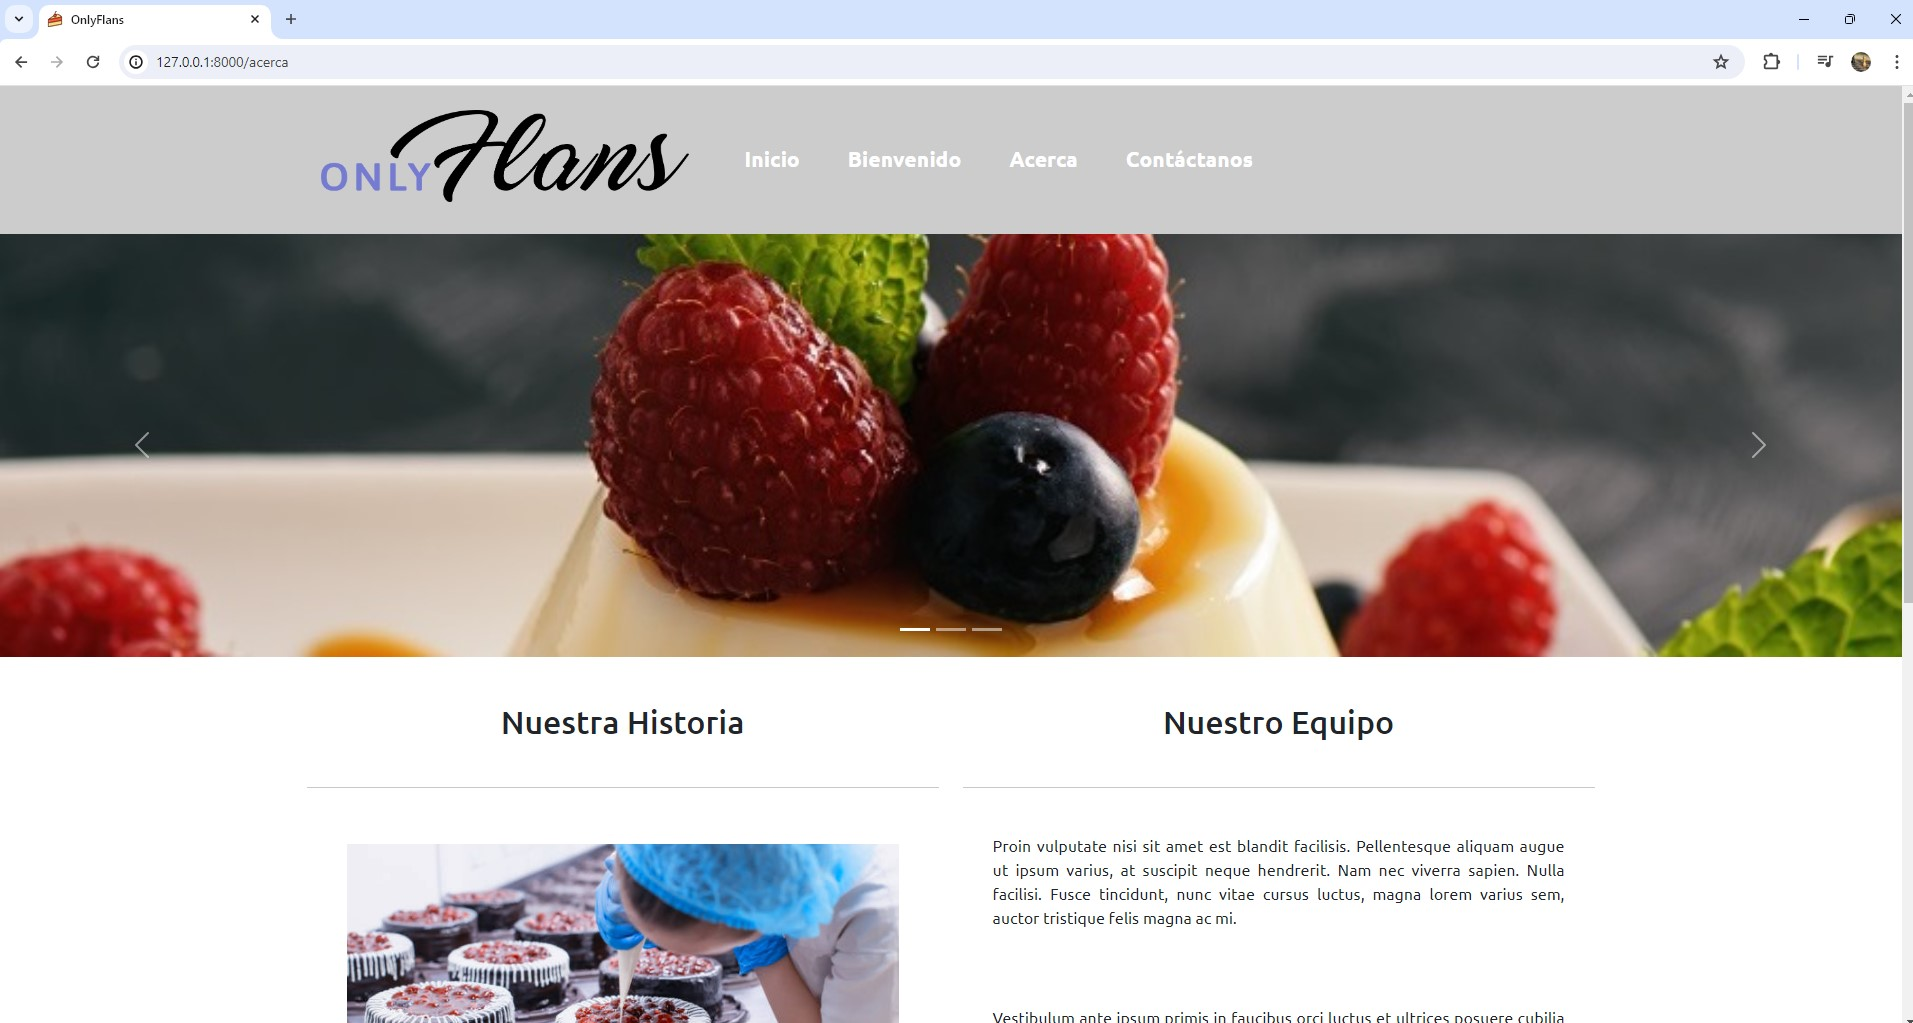
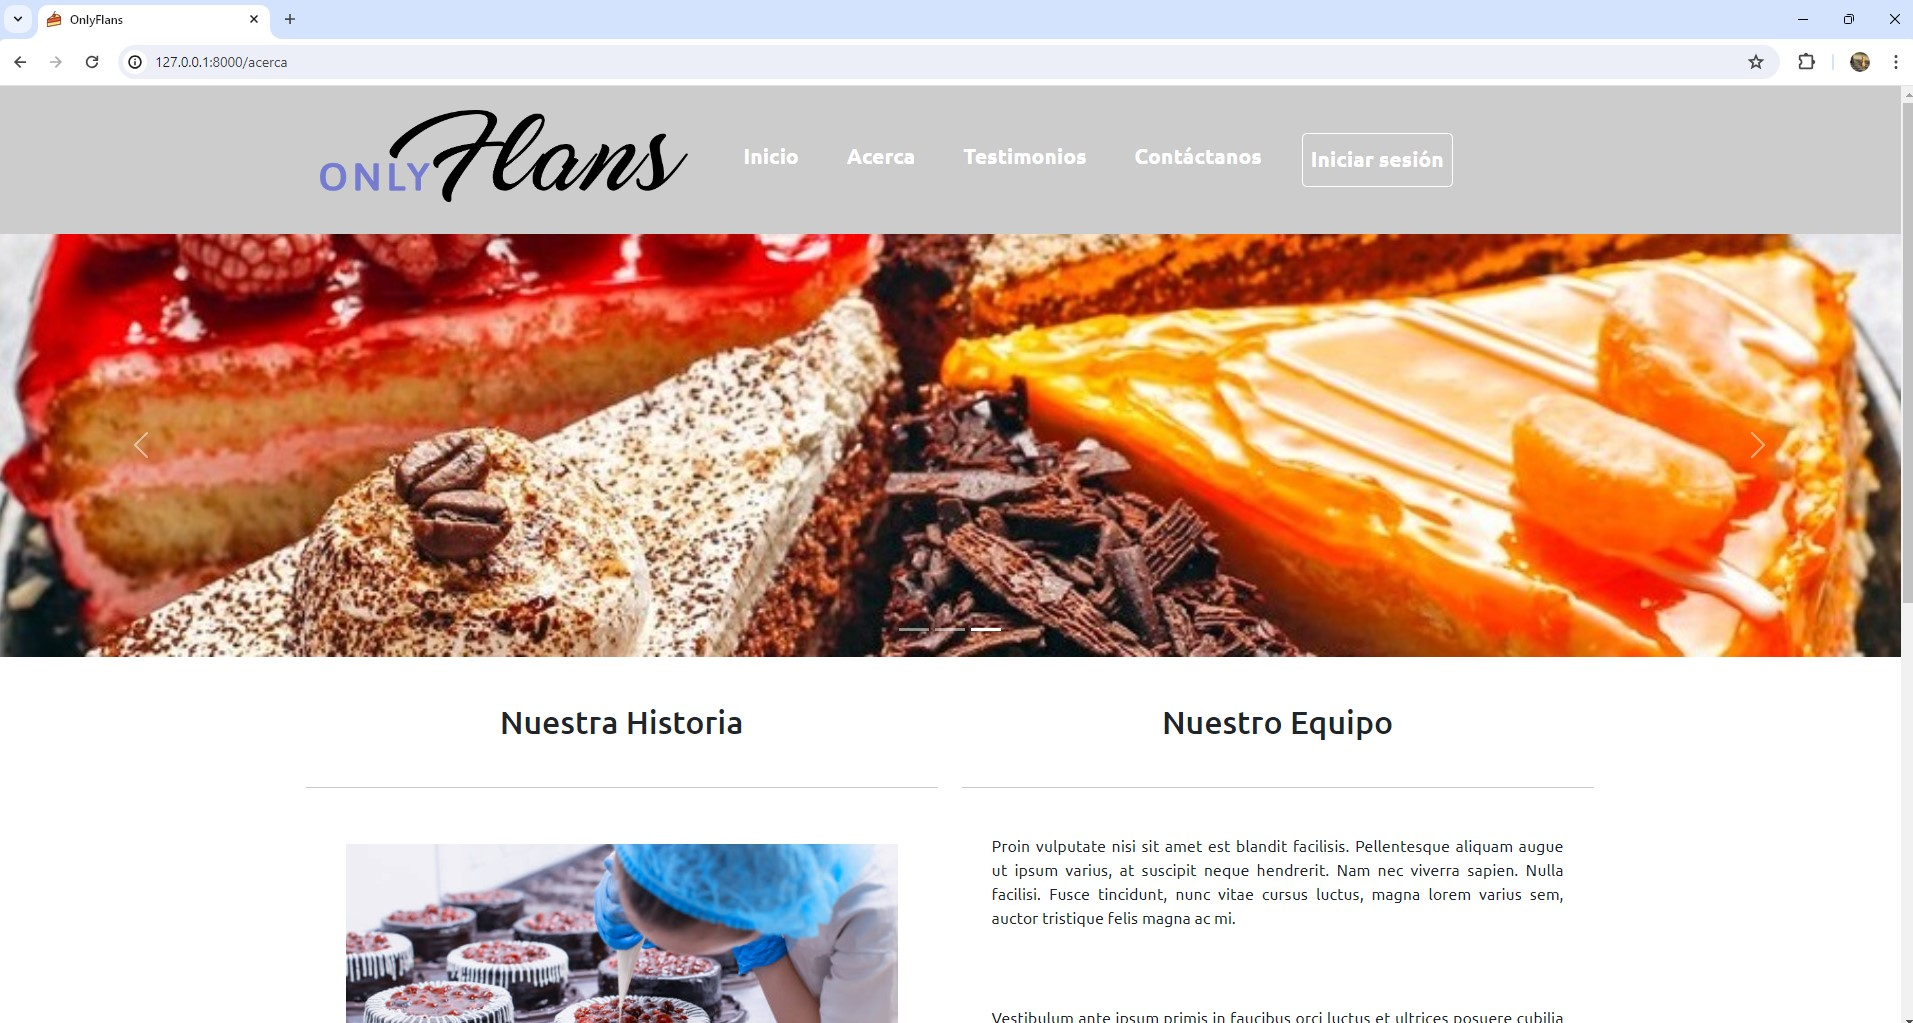
[DOC] Readme modificado

diff --git a/README.md b/README.md
@@ -73,33 +73,78 @@ Este proyecto utiliza un entorno virtual para gestionar las dependencias de Pyth
 ![Inicio](screenshots/inicio.jpg)
 ![Inicio 2](screenshots/inicio2.jpg)
 
+Sección de la página de inicio.
+
 ### Pantalla de Bienvenida
 
 ![Bienvenido](screenshots/bienvenido.jpg)
 ![Bienvenido 2](screenshots/bienvenido2.jpg)
 
+Sección de bienvenida para usuarios con sesión iniciada.
+
 ### Acerca de Nosotros
 
 ![Acerca](screenshots/acerca.jpg)
+![Acerca 2](screenshots/acerca2.jpg)
+
+Sección con información acerca de la empresa.
+
+### Testimonios
+
+![Testimonios](screenshots/testimonios.jpg)
+
+Sección con testimonios de clientes.
 
 ### Formulario de Contacto
 
+![Contacto](screenshots/contacto.jpg)
 ![Formulario de Contacto](screenshots/formulario_contacto.jpg)
 ![Formulario de Contacto 2](screenshots/formulario_contacto2.jpg)
 
-### Éxito
+Sección para formulario de contacto y mensaje de éxito al enviar el formulario.
 
-![Éxito](screenshots/exito.jpg)
+### Inicio de Sesión
+
+![Inicio de Sesión](screenshots/inicio_sesion.jpg)
+
+Sección para iniciar sesión dentro de la página.
+
+### Bienvenida para Clientes
+
+![Bienvenida para Clientes](screenshots/bienvenida_cliente.jpg)
+![Bienvenida para Clientes 2](screenshots/bienvenida_cliente2.jpg)
+
+Sección para usuarios con sesión iniciada exclusivamente.
+
+### Cerrar Sesión
+
+![Cerrar Sesión](screenshots/cerrar_sesion.jpg)
+
+Botón para cerrar la sesión.
 
 ### Panel de Administración
 
 ![Panel de Administración](screenshots/admin_panel.jpg)
 ![Panel de Administración 2](screenshots/admin_panel2.jpg)
 
+Panel de administración de la página.
+
 ### Panel de Postres
 
 ![Panel de Postres](screenshots/panel_postres.jpg)
 ![Panel de Postres 2](screenshots/panel_postres2.jpg)
+
+Listado de modelo de postres ingresado en el panel de administración.
+
+### Panel de Usuarios
+
+![Panel de Usuarios](screenshots/panel_usuarios.jpg)
+![Panel de Usuario](screenshots/panel_usuario.jpg)
+![Panel de Usuario sin Staff](screenshots/panel_usuario_nostaff.jpg)
+
+Listado de usuarios ingresados en el panel, pero que no son miembros del staff de administradores.
+
+Comentario adicional: La clave tanto para los administradores como para los usuarios es 'desafio-latam2024' para facilitar el uso.
 
 ## Autor
 
